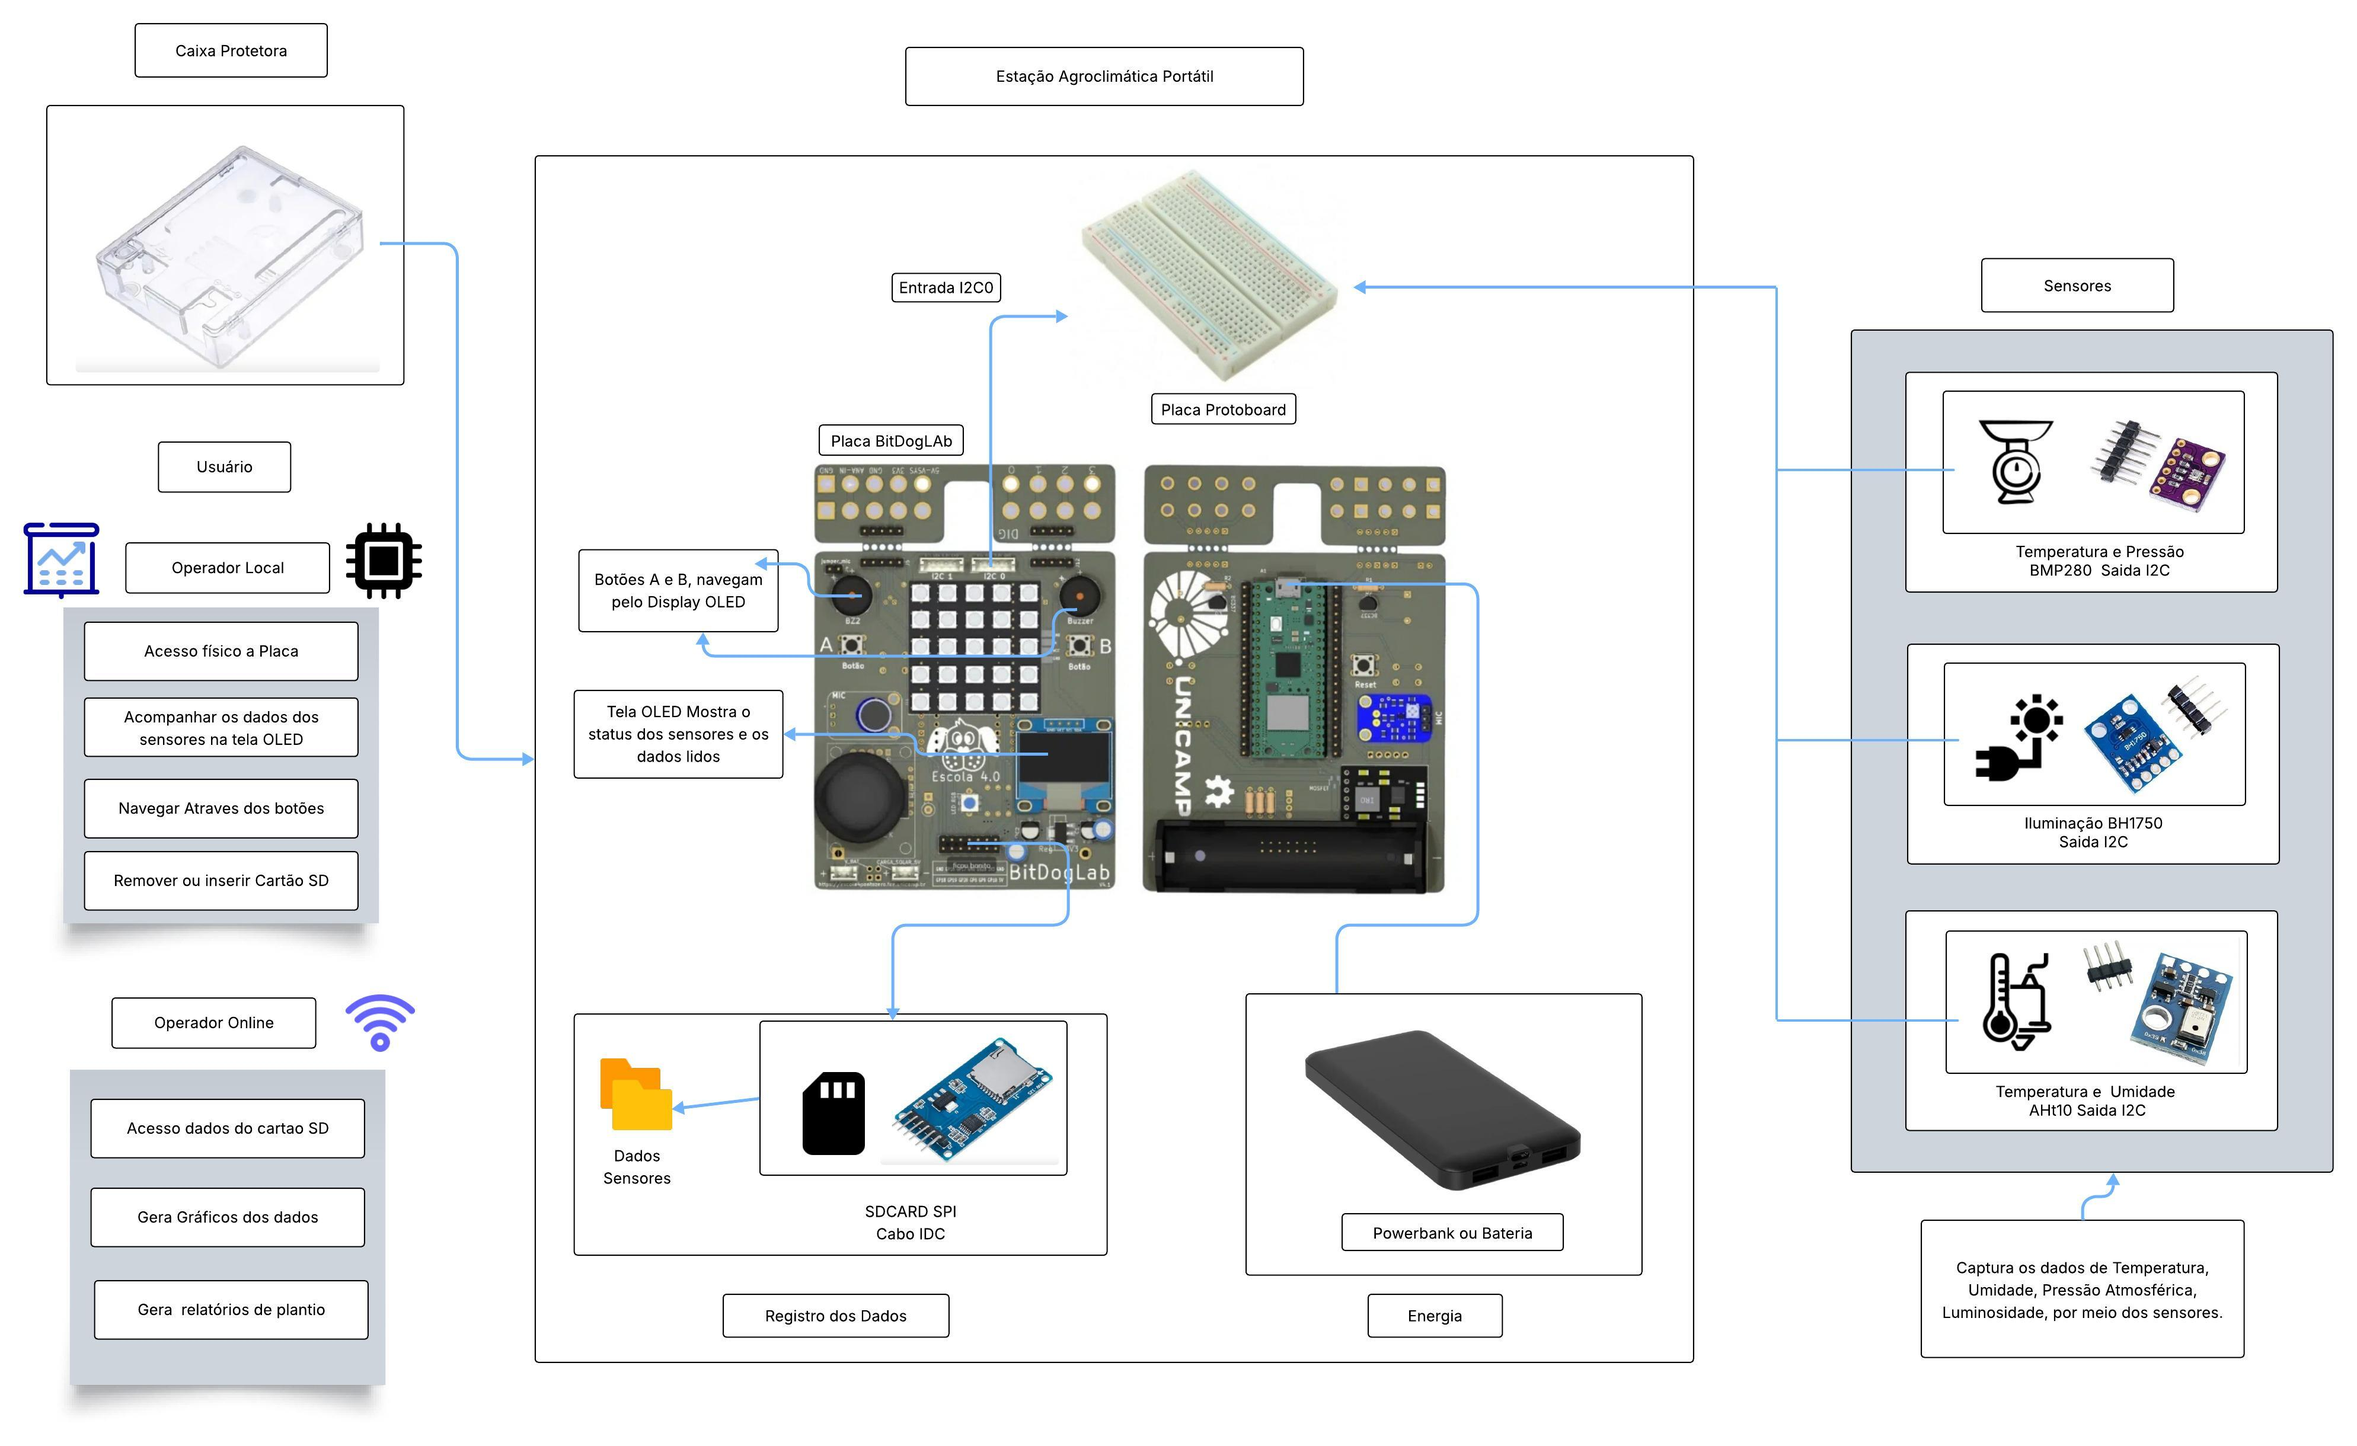
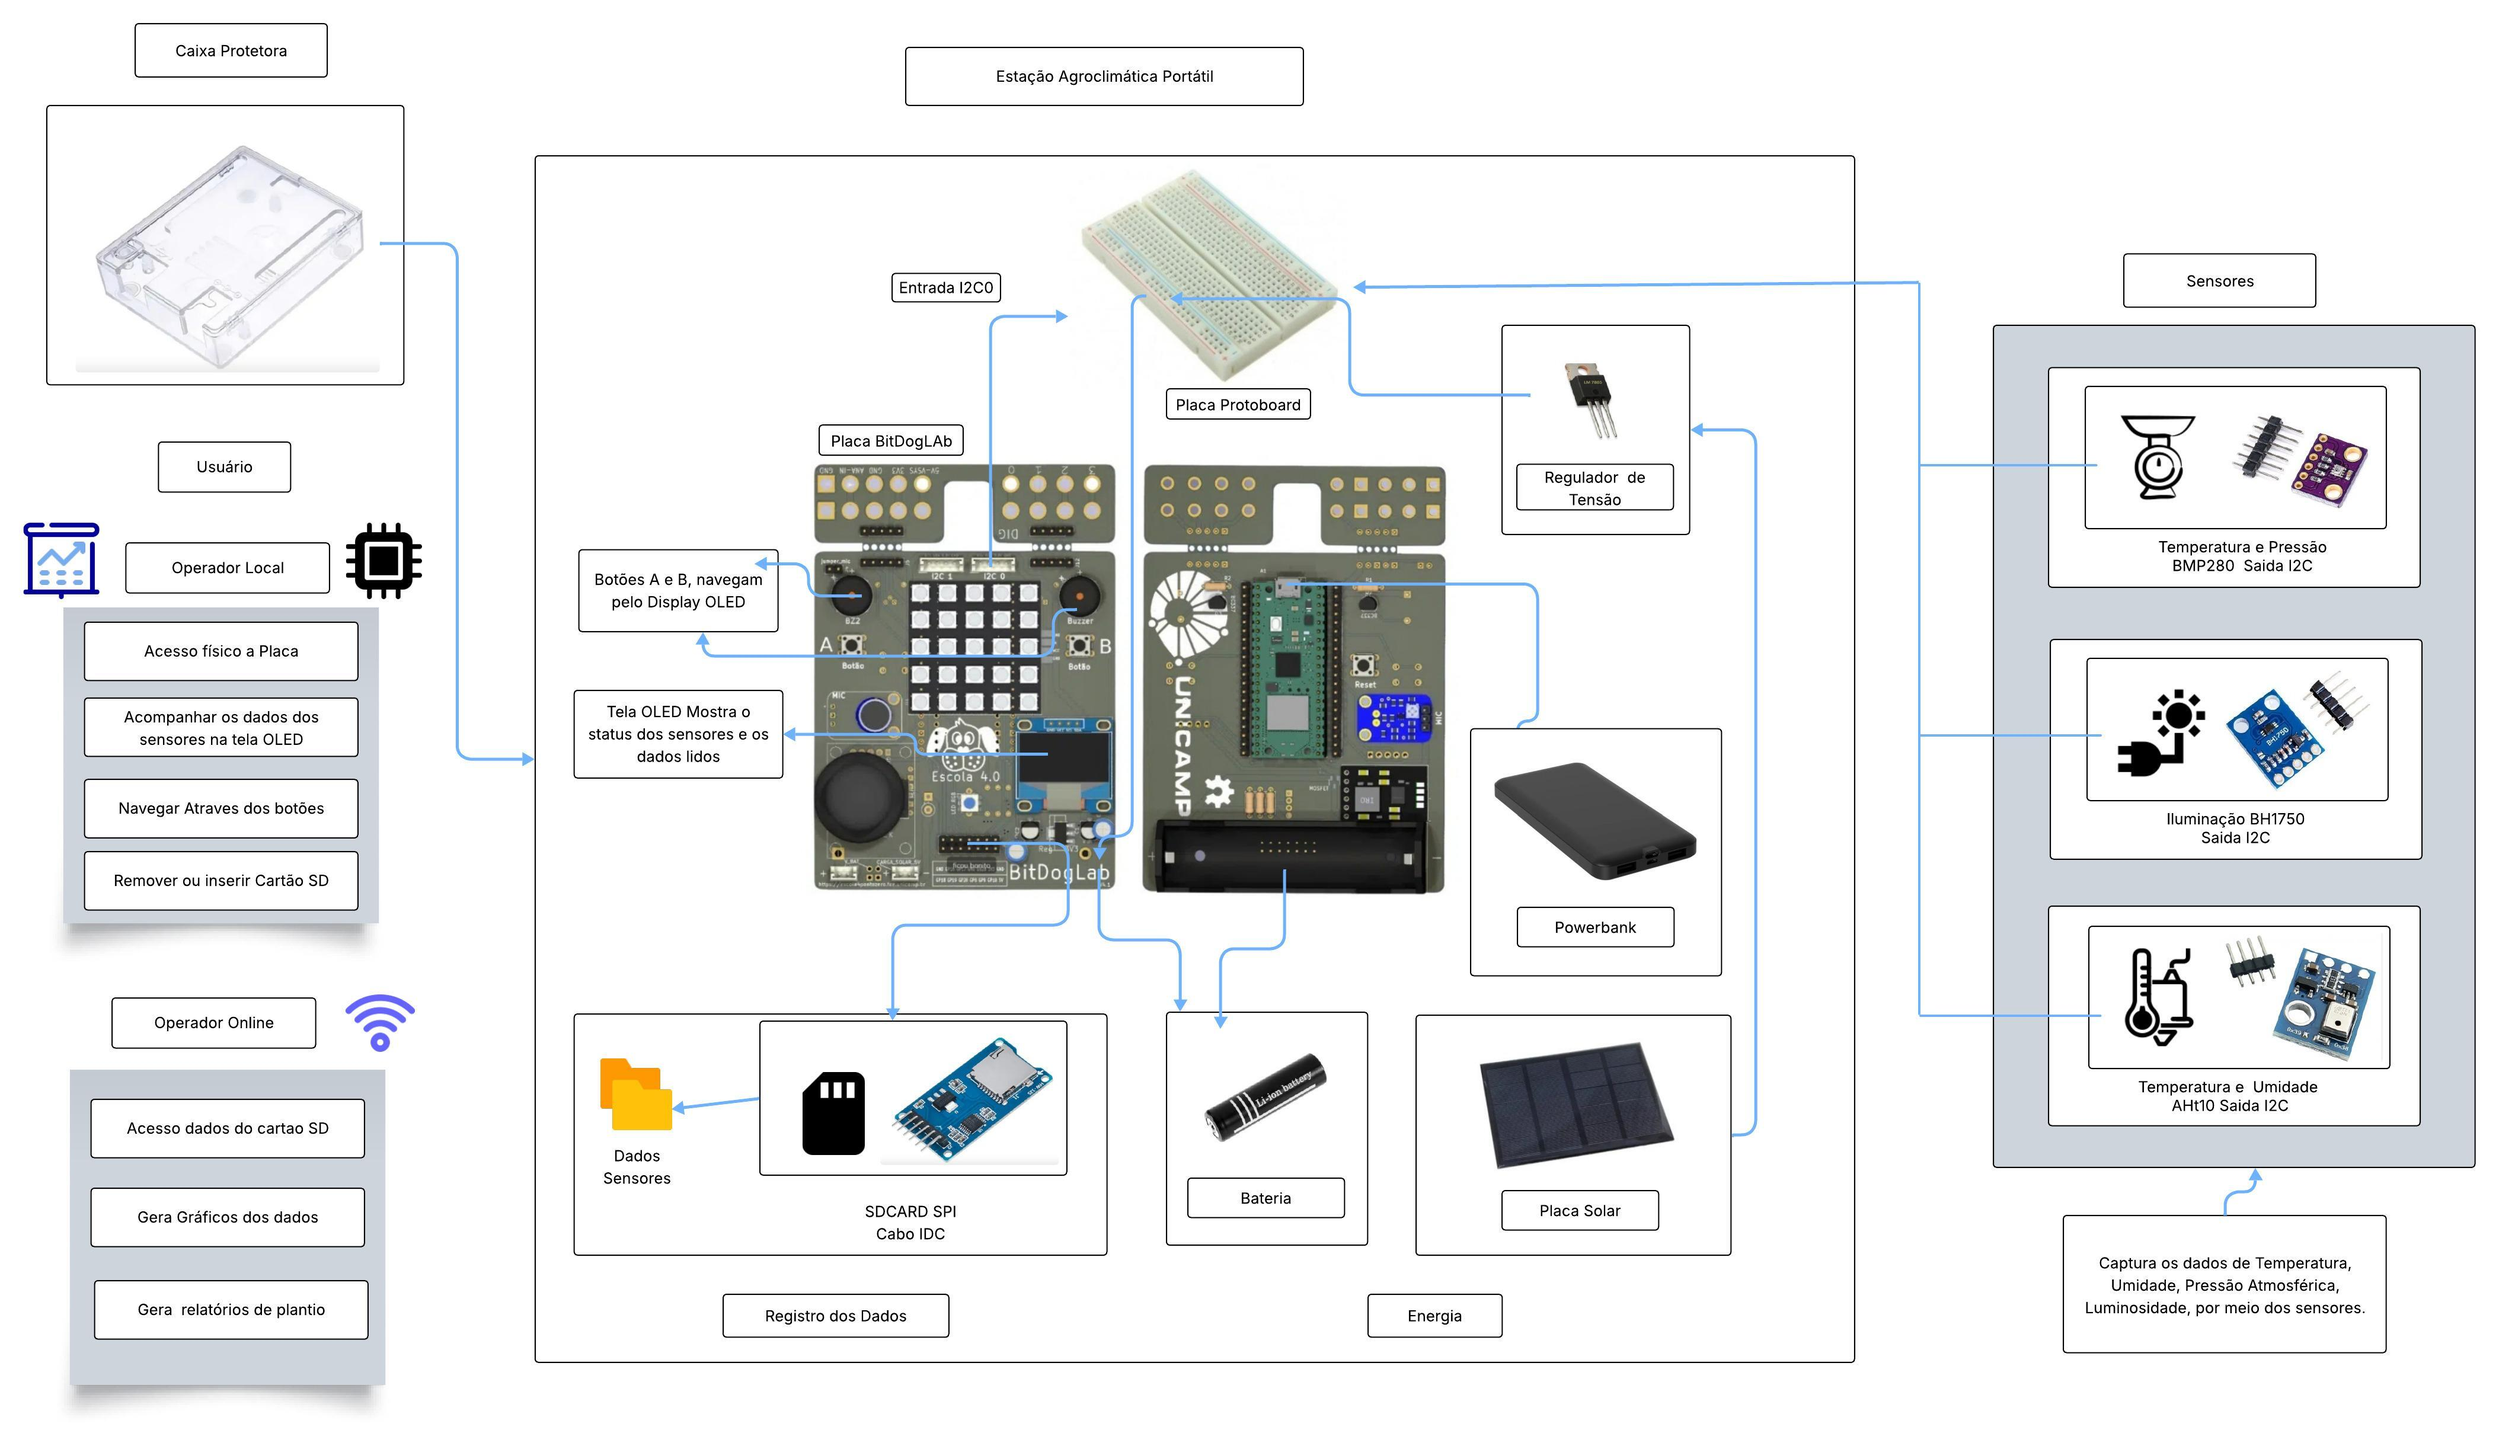
Projeto Final: Ajustes no Readme

diff --git a/Etapa 1/README.md b/Etapa 1/README.md
@@ -33,6 +33,8 @@ Desenvolver uma mini-estação portátil e inteligente que:
 - Monitore **temperatura, umidade, luz e pressão** em tempo real.  
 - Emita na **tela OLED** os dados coletados dos sensores.  
 - Armazene no **cartão SD** todos os dados coletados pelos sensores durante o ano para futura análise.  
+- Envie por **Wi-Fi** todos os dados coletados pelos sensores para o site ThingSpeak, onde são gerados gráficos.  
+- Recarregue por **Painel Solar** a bateria que alimenta a BitDogLab.  
 
 ---
 
@@ -47,9 +49,11 @@ Desenvolver uma mini-estação portátil e inteligente que:
 | RF05   | Exibir dados dos sensores em uma tela. |  
 | RF06   | Armazenar os dados coletados no Cartão SD em intervalos de tempo. |  
 | RF07   | Mostrar o status de armazenamento, se gravou ou não. |  
-| RF08   | Ao pressionar o botão A, a tela deve alternar para a Tela 2 (valores). Ao pressionar o botão B, a tela deve alternar para a Tela 1 (status). |  
+| RF08   | Ao pressionar o botão A, a tela deve avaçar para tela seguinte. Ao pressionar o botão B, a tela deve voltar sempre para a Tela 1 (status). |  
 | RF09   | Exibir mensagens de alerta na tela OLED quando condições críticas forem detectadas (ex.: risco de geada, fungos, calor excessivo, tendência de chuva). |  
-| RF10   | Definir o intervalo de leitura dos sensores e o modo de gravação dos dados no cartão SD (individual ou em lotes). |  
+| RF10   | Enviar os dados por Wi-Fi para o site ThingSpeak. |  
+| RF11   | Recarregar a bateria com energia do painel solar através da BitDogLAb. |  
+| RF12   | Definir o intervalo de leitura dos sensores e o modo de gravação dos dados no cartão SD. |  
 
 ---
 
@@ -65,6 +69,7 @@ Desenvolver uma mini-estação portátil e inteligente que:
 | RNF06  | O sistema deve operar continuamente. | Sistema deve funcionar por pelo menos 7 dias sem necessidade de reinicialização manual. |
 | RNF07  | O software deve ser implementado usando FreeRTOS, multitarefa. | Cada função crítica (coleta de dados, exibição, gravação em SD) deve rodar como tarefa independente, com prioridade definida. Scheduler deve garantir que leituras não atrasem mais que 1s. |
 | RNF08  | Clareza dos alertas exibidos. | Mensagens devem ser curtas (≤ 20 caracteres), exibidas por pelo menos 5 segundos e facilmente interpretáveis pelo agricultor. |
+| RNF09 | Sustentabilidade energética. | O sistema deve priorizar uso de energia solar sempre que disponível, reduzindo dependência de fontes externas. |
 
 ---
 
@@ -73,7 +78,7 @@ Desenvolver uma mini-estação portátil e inteligente que:
 | Item | Quantidade | Descrição |
 |------|------------|-----------|
 | Caixa de plástico ou madeira | 1 | Recipiente base para proteção dos componentes |
-| Placa BitDogLab com Raspberry Pi Pico W | 1 | Microcontrolador com periféricos integrados (OLED, botões) |
+| Placa BitDogLab com Raspberry Pi Pico W | 1 | Microcontrolador com periféricos integrados (OLED, botões, Wi-Fi) |
 | Placa Protoboard | 1 | Conectada à entrada I2C0 |
 | Sensor de Temperatura e Pressão BMP280 | 1 | Sensor externo conectado via Protoboard |
 | Sensor de Umidade e Temperatura AHT10 | 1 | Sensor externo conectado via Protoboard |
@@ -82,7 +87,9 @@ Desenvolver uma mini-estação portátil e inteligente que:
 | Cabos customizados XH I2C | 1 | Para conexão dos sensores externos à BitDogLab |
 | Cabos jumper macho/fêmea | 4 | Para conexão da protoboard na entrada I2C0 |
 | Cabos jumper macho/fêmea | 12 | Para conexão dos sensores na protoboard |
-| Fonte de energia (Power Bank ou bateria Li-ion) | 1 | Alimentação portátil para o sistema |
+| Fonte de energia ( Bateria lítio 3,7V recarregável, Power Bank(Opcional)) | 1 | Alimentação portátil para o sistema |
+| Mini Painel solar 6V - 320 mA | 1 | Para carregar a BitDogLab que carregá a bateria de 3.7v da placa |
+| Regulador de tensão LM7805 (5V / 1A) | 1 |Para conectar a Painel Solar a bitdolab pela protoboard |
 | Botão A | 1 | Alternar tela do display OLED |
 | Botão B | 1 | Alternar tela do display OLED |
 
@@ -111,9 +118,10 @@ Desenvolver uma mini-estação portátil e inteligente que:
 - **Formato de gravação**: dados registrados em **CSV**, no padrão:  
 
 ```
-Data,Hora,Temperatura(°C),Umidade(%),Pressão(hPa),Luminosidade(lux)
-05/09/2025,14:35:00,28.4,65,1012,1250
-05/09/2025,14:36:00,28.7,64,1011,1275
+Temp: 28.95 | Umid: 26.89 | Press: 890.85 | Lux: 101.67 
+Temp: 28.93 | Umid: 26.74 | Press: 890.77 | Lux: 103.33 
+Temp: 28.95 | Umid: 26.97 | Press: 887.80 | Lux: 103.80
+
 ```
 ### Justificativa Técnica  
 - Leituras frequentes permitem detectar variações rápidas no microclima.  
@@ -126,15 +134,16 @@ Data,Hora,Temperatura(°C),Umidade(%),Pressão(hPa),Luminosidade(lux)
 
 ### Principais Características  
 ✅ **Monitoramento em Tempo Real**: Sensores monitoram temperatura, umidade, luz e pressão atmosférica.  
-✅ **Tela de Informações**: Tela OLED com dados dos sensores.  
-✅ **Registro de Dados**: Armazena informações em cartão SD ou transmite via Wi-Fi (futuro).  
-✅ **Operação Autônoma**: Alimentado por bateria ou Powerbank para portabilidade.  
+✅ **Tela de Informações**: Tela OLED com dados dos sensores, da Wi-Fi, do cartão SD, dos Alertas.  
+✅ **Registro de Dados**: Armazena informações em cartão SD ou transmite via Wi-Fi.  
+✅ **Operação Autônoma**: Alimentado por bateria e recarregado com Painel Solar ou Powerbank para portabilidade.  
 
 ### Fluxo de Trabalho do Sistema  
 1. **Sensores** coletam dados ambientais.  
 2. **BitDogLab (RP2040)** processa dados e salva no cartão SD.  
 3. **Display OLED** exibe dados coletados.  
-4. **Conectividade Wi-Fi** (opcional) será implementada futuramente.  
+4. **Conectividade Wi-Fi** Manda os dados para o site ThingSpeak, para visualização de gráficos.  
+5. **Painel Solar + Bateria Li-Ion** garantem a autonomia energética da estação.
 ---
 
 ## 📷 **Imagens e Esquemas**  ##
